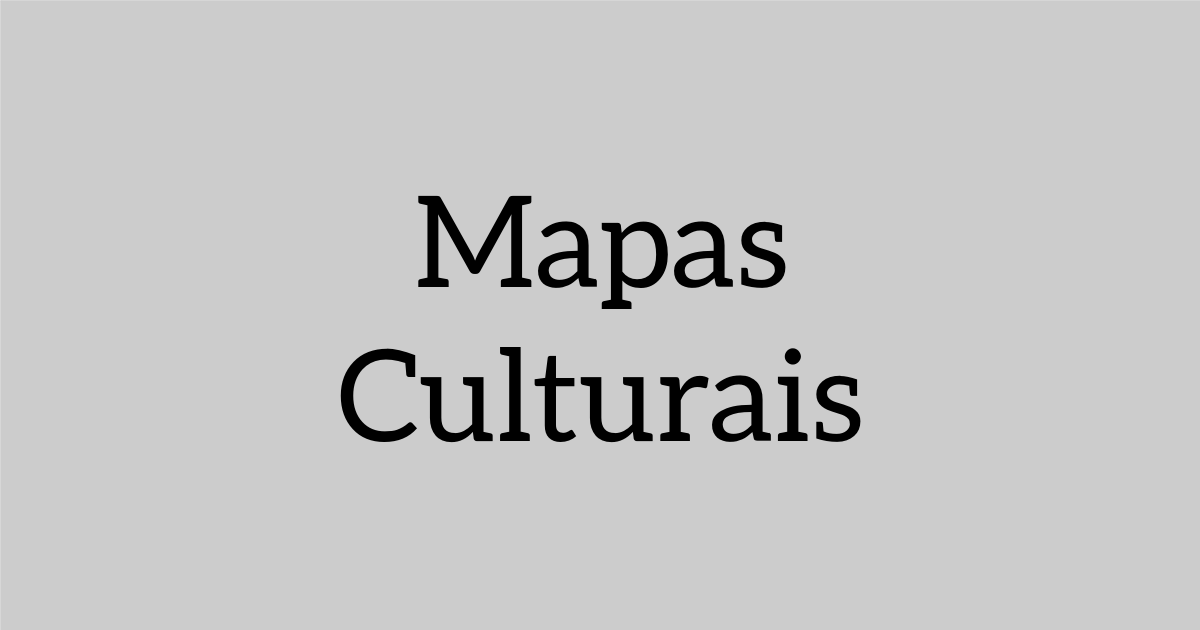
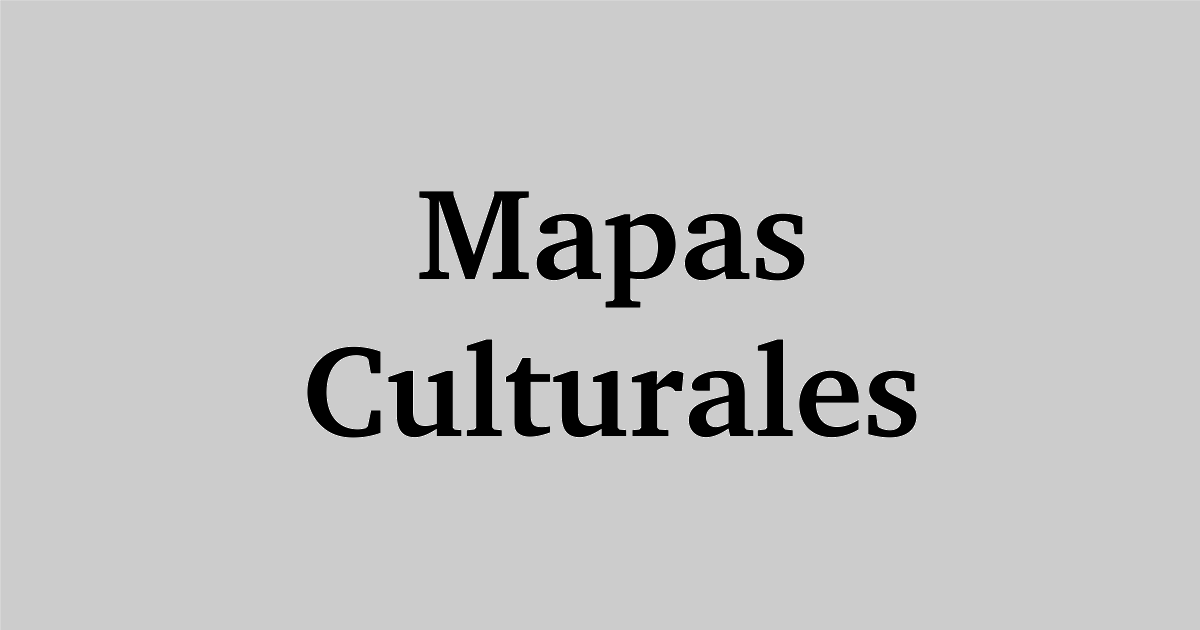
issues #50, traduccion texto imagen al compartir en redes, algunas traducciones

Changed region(s): [[0.2467, 0.5429, 0.7708, 0.7238], [0.3392, 0.3016, 0.6783, 0.5127]]

diff --git a/src/protected/application/themes/BaseV1/assets/js/ng.search.service.find.js b/src/protected/application/themes/BaseV1/assets/js/ng.search.service.find.js
@@ -273,7 +273,7 @@
 
                 if(entity === 'space'){
                     if(action === 'find') {
-                        selectData += ',endereco,acessibilidade';
+                        selectData += ',endereco,En_Estado,acessibilidade';
                     }else{
                         selectData += ',classificacaoEtaria,project.name,project.singleUrl,occurrences';
                         apiExportURL += 'event/findByLocation/?';
@@ -282,6 +282,9 @@
                     selectData += ',registrationFrom,registrationTo';
                 }else if(entity === 'event'){
                     selectData += ',classificacaoEtaria,project.name,project.singleUrl,occurrences';
+                }
+                else if(entity === 'agent'){
+                    selectData += ',En_Estado';
                 }
 
                 if(data.global.viewMode === 'list'){

diff --git a/src/protected/application/themes/BaseV1/views/project/single.php b/src/protected/application/themes/BaseV1/views/project/single.php
@@ -127,7 +127,7 @@ $child_entity_request = isset($child_entity_request) ? $child_entity_request : n
                     <?php if($this->isEditable() || $entity->registrationFrom): ?>
                         <div class="registration-dates">
                             Inscripciones Abiertas de
-                            <strong class="js-editable" data-type="date" data-yearrange="2000:+3" data-viewformat="dd/mm/yyyy" data-edit="registrationFrom" data-showbuttons="false" data-emptytext="Data inicial"><?php echo $entity->registrationFrom ? $entity->registrationFrom->format('d/m/Y') : 'Fecha inicial'; ?></strong>
+                            <strong class="js-editable" data-type="date" data-yearrange="2000:+3" data-viewformat="dd/mm/yyyy" data-edit="registrationFrom" data-showbuttons="false" data-emptytext="Fecha inicial"><?php echo $entity->registrationFrom ? $entity->registrationFrom->format('d/m/Y') : 'Fecha inicial'; ?></strong>
                             a
                             <strong class="js-editable" data-type="date" data-yearrange="2000:+3" data-viewformat="dd/mm/yyyy" data-edit="registrationTo" data-timepicker="#registrationTo_time" data-showbuttons="false" data-emptytext="Fecha final"><?php echo $entity->registrationTo ? $entity->registrationTo->format('d/m/Y') : 'Fecha final'; ?></strong>
                             a las

diff --git a/src/protected/application/lib/MapasCulturais/ApiOutputs/Html.php b/src/protected/application/lib/MapasCulturais/ApiOutputs/Html.php
@@ -23,7 +23,7 @@ class Html extends \MapasCulturais\ApiOutput{
         'linguagem' => 'Tipos de eventos',
         
         'acessibilidade' => 'accesibilidad',
-
+        'En_Estado' => 'Departamento',
         'agent'=>'Agente',
         'space'=>'Espacio',
         'event'=>'Evento',
